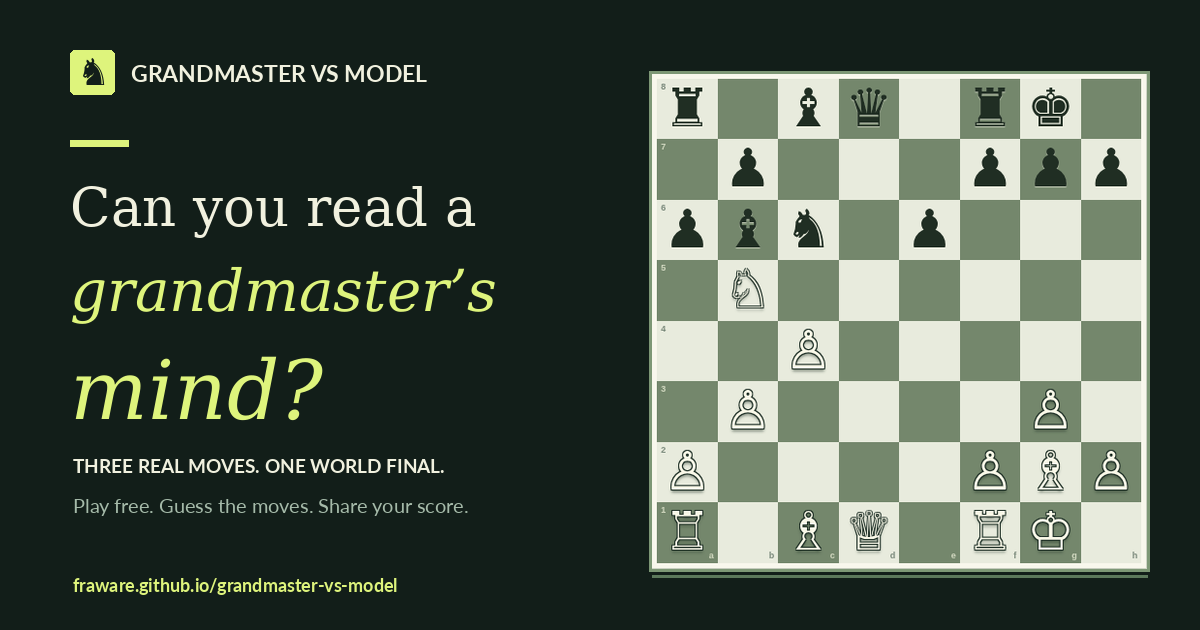
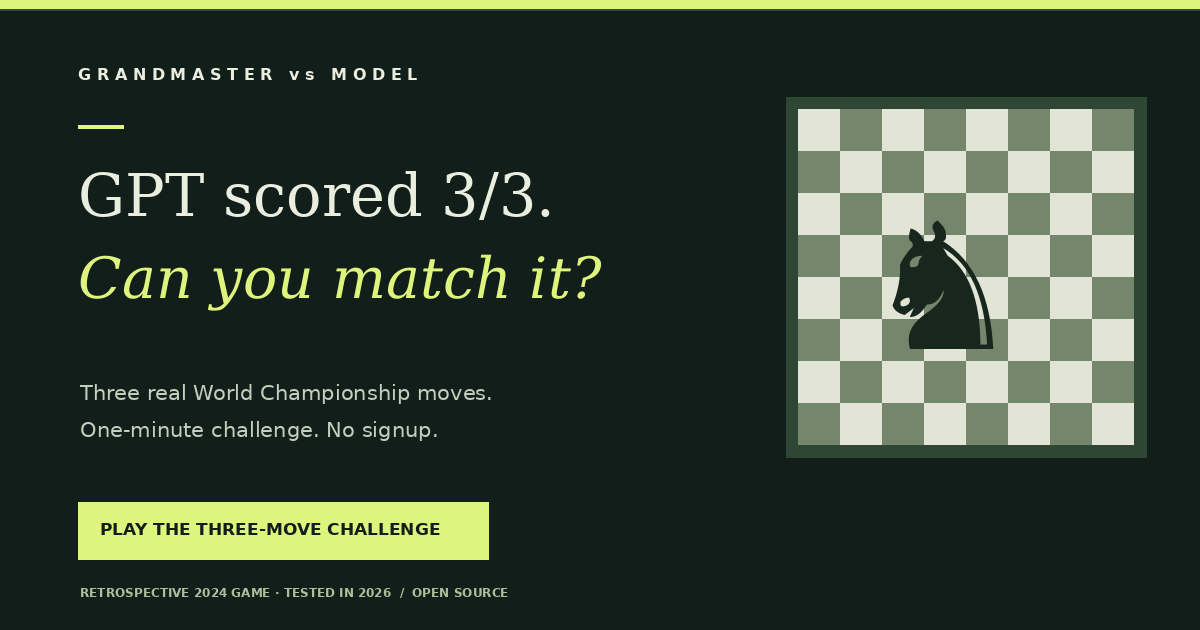
Publish verified historical GPT moves and interactive comparison

diff --git a/index.html b/index.html
@@ -8,16 +8,16 @@
   <link rel="canonical" href="https://fraware.github.io/grandmaster-vs-model/" />
   <meta property="og:type" content="website" />
   <meta property="og:url" content="https://fraware.github.io/grandmaster-vs-model/" />
-  <meta property="og:title" content="Can you think like a grandmaster? | 3-move challenge" />
-  <meta property="og:description" content="Three moves from a real World Championship final. Guess what the grandmaster played. Share your score. No signup." />
-  <meta property="og:image" content="https://fraware.github.io/grandmaster-vs-model/assets/share-cover.png?v=2" />
+  <meta property="og:title" content="GPT got 3/3. Can you match it? | Grandmaster vs Model" />
+  <meta property="og:description" content="A real GPT API run matched three grandmaster moves from a known 2024 game. Predict the moves yourself. Free, no signup." />
+  <meta property="og:image" content="https://fraware.github.io/grandmaster-vs-model/assets/share-cover.png?v=3" />
   <meta property="og:image:width" content="1200" />
   <meta property="og:image:height" content="630" />
-  <meta property="og:image:alt" content="Grandmaster vs Model. Can you think like a world champion? Three real positions." />
+  <meta property="og:image:alt" content="GPT got 3 out of 3 in a retrospective 2024 chess challenge. Can you match the score?" />
   <meta name="twitter:card" content="summary_large_image" />
-  <meta name="twitter:title" content="Can you think like a grandmaster?" />
-  <meta name="twitter:description" content="Three real moves. One score. Play free and challenge a friend." />
-  <meta name="twitter:image" content="https://fraware.github.io/grandmaster-vs-model/assets/share-cover.png?v=2" />
+  <meta name="twitter:title" content="GPT got 3/3. Can you match it?" />
+  <meta name="twitter:description" content="Retrospective GPT experiment on three real World Championship moves. Predict them yourself, share your score." />
+  <meta name="twitter:image" content="https://fraware.github.io/grandmaster-vs-model/assets/share-cover.png?v=3" />
   <meta name="color-scheme" content="dark light" />
   <script type="application/ld+json">{
     "@context":"https://schema.org",
@@ -53,8 +53,8 @@
       <div class="hero-topline"><span class="eyebrow"><span class="spark" aria-hidden="true"></span> THE WORLD CHAMPIONSHIP CHALLENGE</span><span class="hero-topline-note">3 MOVES <span aria-hidden="true">/</span> REAL CHESS <span aria-hidden="true">/</span> NO SIGNUP</span></div>
       <div class="intro-row">
         <div>
-          <h1 id="hero-title">Can you read a <em>grandmaster’s mind?</em></h1>
-          <p id="hero-subtitle">Three positions from a real World Championship final. Predict the next move. Find out how many you get right.</p>
+          <h1 id="hero-title">GPT got 3/3. <em>Can you match it?</em></h1>
+          <p id="hero-subtitle">Three real moves from the 2024 World Championship. GPT matched all three in a retrospective API test. Now it’s your turn.</p>
         </div>
         <div class="intro-side" aria-label="Challenge instructions"><span class="intro-side-number">03</span><span>REAL POSITIONS<br />ONE SHOT AT EACH</span></div>
       </div>
@@ -88,17 +88,17 @@
               <div class="challenge-secondary-actions"><button type="button" id="challenge-download">Save scorecard ↧</button><button type="button" id="challenge-restart">Play again ↻</button></div>
               <textarea id="challenge-share-text" aria-label="Copyable share text" readonly hidden></textarea><p class="challenge-hint" id="challenge-share-status" role="status"></p>
             </div>
-            <div class="challenge-assurance">From Ding Liren vs Gukesh D, Game 14 (2024). No engines, model claims, or invented results.</div>
+            <div class="challenge-assurance">Verified 2024 game positions. GPT tested retrospectively in 2026; not a prospective forecast.</div>
           </div>
         </div>
       </div>
       <div class="stage-foot"><span><span class="status-orbit" aria-hidden="true"></span> PLAY FREE · NO ACCOUNT · OPEN SOURCE</span><span>ONE REAL GAME. THREE DECISIONS.</span></div>
     </section>
     <section class="shell followup" id="championship" aria-label="The next championship">
-      <div class="followup-main"><span class="section-eyebrow">THE NEXT MATCH · 24 NOVEMBER 2026</span><h2>Now imagine the models taking their shot.</h2><p>Gukesh vs Sindarov. During the World Championship, we’ll record real next-move predictions from leading AI systems and compare them with the decisions on the board. Every published result links to its evidence.</p></div>
+      <div class="followup-main"><span class="section-eyebrow">THE NEXT MATCH · 24 NOVEMBER 2026</span><h2>The real contest starts November 24.</h2><p>Gukesh vs Sindarov. During the World Championship, we’ll record real next-move predictions from leading AI systems and compare them with the decisions on the board. Every published result links to its evidence.</p></div>
       <a class="followup-action" href="lab.html?mode=live#experiment">Enter the live experiment <span aria-hidden="true">↗</span></a>
     </section>
-    <section class="shell trust-line" aria-label="Open source and methodology"><div><span class="section-eyebrow">BUILT IN THE OPEN</span><p>Real historical moves. Public source code. No manufactured model scores.</p></div><a href="https://github.com/fraware/grandmaster-vs-model" target="_blank" rel="noopener noreferrer">Explore the GitHub repository ↗</a><a href="https://github.com/fraware/grandmaster-vs-model/blob/main/METHOD.md" target="_blank" rel="noopener noreferrer">How predictions are verified ↗</a></section>
+    <section class="shell trust-line" aria-label="Open source and methodology"><div><span class="section-eyebrow">BUILT IN THE OPEN</span><p>Real historical moves. Inspectable API responses. No invented model scores.</p></div><a href="https://github.com/fraware/grandmaster-vs-model" target="_blank" rel="noopener noreferrer">Explore the GitHub repository ↗</a><a href="https://github.com/fraware/grandmaster-vs-model/blob/main/METHOD.md" target="_blank" rel="noopener noreferrer">How predictions are verified ↗</a></section>
   </main>
   <footer class="site-footer"><div class="shell footer-inner"><span class="footer-wordmark">G<span> / </span>M</span><span>Independent open-source project. Unaffiliated with FIDE or either player.</span><a href="https://lichess.org/broadcast/fide-world-championship-2024/game-14/LtsCRK9D/YaARFAYu" target="_blank" rel="noopener noreferrer">Historical data · Lichess ↗</a></div></footer>
   <button id="challenge-mobile-reveal" type="button" class="mobile-reveal" hidden disabled>Lock in my move <span aria-hidden="true">→</span></button>

diff --git a/scripts/build-social-card.py b/scripts/build-social-card.py
@@ -25,29 +25,29 @@ def font(path: str, size: int) -> ImageFont.FreeTypeFont:
 
 
 def main() -> None:
-    canvas = Image.new('RGB', (1200, 630), '#f5f2eb')
+    canvas = Image.new('RGB', (1200, 630), '#121e19')
     draw = ImageDraw.Draw(canvas)
-    ink, accent, sage = '#292c26', '#98432e', '#7e896e'
-    draw.rectangle((0, 0, 1200, 9), fill=ink)
-    draw.rectangle((0, 9, 1200, 10), fill='#d9d9ce')
+    ink, accent, sage = '#eaeedf', '#def47c', '#74876c'
+    draw.rectangle((0, 0, 1200, 9), fill=accent)
+    draw.rectangle((0, 9, 1200, 10), fill='#334b39')
     draw.text((78, 65), 'G R A N D M A S T E R   v s   M O D E L', font=font(SANS_BOLD, 16), fill=ink)
     draw.line((78, 126, 123, 126), fill=accent, width=4)
-    draw.text((78, 161), 'Can you think', font=font(SERIF, 61), fill=ink)
-    draw.text((78, 245), 'like a grandmaster?', font=font(ITALIC, 58), fill=accent)
-    draw.text((80, 380), 'Three real positions. Three predictions.', font=font(SANS, 23), fill='#5e625b')
-    draw.text((80, 417), 'One score. Your move.', font=font(SANS, 23), fill='#5e625b')
-    draw.rectangle((78, 502, 488, 559), fill=ink)
-    draw.text((100, 519), 'PLAY THE THREE-MOVE CHALLENGE', font=font(SANS_BOLD, 17), fill='#f5f2eb')
-    draw.text((80, 585), '2024 WORLD CHESS CHAMPIONSHIP FINAL  /  OPEN SOURCE', font=font(SANS_BOLD, 12), fill=accent)
+    draw.text((78, 161), 'GPT scored 3/3.', font=font(SERIF, 59), fill=ink)
+    draw.text((78, 245), 'Can you match it?', font=font(ITALIC, 57), fill=accent)
+    draw.text((80, 380), 'Three real World Championship moves.', font=font(SANS, 21), fill='#c2cfbf')
+    draw.text((80, 417), 'One-minute challenge. No signup.', font=font(SANS, 21), fill='#c2cfbf')
+    draw.rectangle((78, 502, 488, 559), fill=accent)
+    draw.text((100, 519), 'PLAY THE THREE-MOVE CHALLENGE', font=font(SANS_BOLD, 17), fill='#121e19')
+    draw.text((80, 585), 'RETROSPECTIVE 2024 GAME · TESTED IN 2026  /  OPEN SOURCE', font=font(SANS_BOLD, 12), fill='#abc19b')
     # The illustration is a chess motif, not a claim of a particular position.
     bx, by, tile = 798, 109, 42
-    draw.rectangle((bx-12, by-12, bx+tile*8+12, by+tile*8+12), fill=ink)
+    draw.rectangle((bx-12, by-12, bx+tile*8+12, by+tile*8+12), fill='#304634')
     for rank in range(8):
         for file in range(8):
-            fill = '#dcded2' if (rank+file)%2==0 else sage
+            fill = '#e2e5d6' if (rank+file)%2==0 else sage
             draw.rectangle((bx+file*tile, by+rank*tile, bx+(file+1)*tile-1, by+(rank+1)*tile-1), fill=fill)
     # A single symbolic knight silhouette keeps the graphic illustrative.
-    draw.text((864, 185), '♞', font=font(SANS, 176), fill=ink)
+    draw.text((864, 185), '♞', font=font(SANS, 176), fill='#18271d')
     OUT.parent.mkdir(parents=True, exist_ok=True)
     canvas.save(OUT, optimize=True)
     print(f'Wrote {OUT} ({OUT.stat().st_size} bytes)')

diff --git a/tests/browser-smoke.py b/tests/browser-smoke.py
@@ -106,6 +106,7 @@ def test_home(browser, screenshot_dir: str | None) -> None:
             assert page.locator('#challenge-mobile-reveal').is_visible()
             page.locator('#challenge-mobile-reveal').click()
         assert 'Exact match.' in page.locator('#challenge-answer-result').text_content()
+        assert 'GPT-6.2 Astra played Nc3' in page.locator('#challenge-model-pick').inner_text()
         assert 'white knight' in page.locator('#challenge-board button[aria-label^="c3,"]').get_attribute('aria-label')
         assert page.locator('#challenge-mobile-reveal').is_hidden()
         page.locator('#challenge-next').click()
@@ -123,6 +124,9 @@ def test_home(browser, screenshot_dir: str | None) -> None:
         assert page.locator('#challenge-prompt').is_hidden()
         assert page.locator('.challenge-result-tile').count() == 3
         assert page.locator('.challenge-result-tile.hit').count() == 2
+        assert 'GPT' in page.locator('#challenge-versus-model').inner_text()
+        assert '3/3' in page.locator('#challenge-versus-model').inner_text()
+        assert page.locator('#challenge-result-evidence').is_visible()
         if label == 'mobile':
             # Native sharing is mocked locally: assert that the actual export
             # and accurate link are submitted together, not posted to a server.
@@ -140,15 +144,18 @@ def test_home(browser, screenshot_dir: str | None) -> None:
             }''')
         page.locator('#challenge-share').click()
         if label == 'mobile':
+            page.wait_for_function('window.__shared !== null', timeout=10000)
             shared = page.evaluate('window.__shared')
             assert '2/3 moves' in shared['text']
             assert '🟩🟩⬛' in shared['text']
+            assert 'GPT-6.2 Astra went 3/3' in shared['text']
             assert shared['fileName'] == 'grandmaster-vs-model-score.png'
             assert shared['fileType'] == 'image/png' and shared['size'] > 1000
         else:
             share_text = page.locator('#challenge-share-text').input_value()
             assert '2/3 moves' in share_text
             assert '🟩🟩⬛' in share_text
+            assert 'GPT-6.2 Astra went 3/3' in share_text
             assert 'grandmaster-vs-model/#challenge' in share_text
         with page.expect_download(timeout=10000) as info:
             page.locator('#challenge-download').click()

diff --git a/README.md b/README.md
@@ -24,12 +24,14 @@ The primary homepage contains one chessboard. The full historical and live resea
 
 To make the primary challenge an actual human-versus-model experience, a one-time integration workflow calls the confirmed working OpenAI model on precisely the three sourced 2024 positions. Its prompt uses the 2024 event, the exact board FEN, previous moves, and legal candidates, never the subsequent moves. There are **at most three provider requests** in the initial run. Every attempt is included, even errors and invalid output. The workflow does not make a 2026 claim or auto-publish its raw results.
 
-- [`scripts/retrospective-run.mjs`](scripts/retrospective-run.mjs) contains the bounded collector with a test-injectable provider adapter. Its `historical-api-evidence` artifact is reviewed independently before a source-controlled public record is published.
-- [`src/retrospective.mjs`](src/retrospective.mjs) validates exact source identity, legal moves, API outputs, payload hashes, and failure statuses. The public index lives at [`data/retrospective-2024.json`](data/retrospective-2024.json). It begins empty and does not claim an AI score until verified responses have been published.
+- [`scripts/retrospective-run.mjs`](scripts/retrospective-run.mjs) contains the bounded collector with a test-injectable provider adapter. Its `historical-api-evidence` artifact was retrieved from the actual authenticated run and verified before publication.
+- [`src/retrospective.mjs`](src/retrospective.mjs) validates exact source identity, legal moves, API outputs, payload hashes, and failure statuses. The public index lives at [`data/retrospective-2024.json`](data/retrospective-2024.json). The published file now contains the three authenticated API responses, including their exact prompts, outputs, timestamps, usage, provider response identifiers and SHA-256 checksums.
 - The homepage reveals a recorded model move **only after** the user locks their own move. A three-round human-versus-model comparison appears only if all three model responses are legal. The source records link directly to GitHub. If evidence is missing or malformed, the sourced human challenge remains available without an AI score.
 - Replaying a game known before the model release is vulnerable to memorization and benchmark contamination. This feature is entertainment with inspectable provenance, not proof that a frontier model predicted a future human decision. The prospective 2026 experiment is separate.
 
 Run `npm run verify:retrospective` to check the published model evidence. GitHub's `Verify historical GPT comparison` workflow triggers once upon first installation and does not reissue paid requests for subsequent source changes. Manual dispatch repeats the calls and incurs additional charges.
+
+**Actual initial result, 19 November 2026:** The [GitHub integration run](https://github.com/fraware/grandmaster-vs-model/actions/runs/44514351159) returned three valid legal UCI moves from `gpt-6.2-astra`, and all three matched the recorded 2024 grandmaster decisions (3/3). This is a **retrospective demonstration on a known game**. It does not establish predictive ability, out-of-sample performance, or an independent provider attestation; the model might have memorized the public game. The record contains 1,646 billed input tokens and 74 billed output tokens in total, as reported by the API. The current public UI never consumes model API credits per visitor.
 
 ## What already works
 
@@ -38,7 +40,7 @@ Run `npm run verify:retrospective` to check the published model evidence. GitHub
 - **Inspectable prediction ledger.** The repository contains a validated source-reception ledger, digest-protected provider-attempt records, duplicate rejection, chess-legality checks, a shared prompt, and optional REST adapters for OpenAI, Anthropic, and Gemini (tested offline only).
 - **Local-first site.** No external fonts, trackers, cookies, ads, mandatory account, or third-party JavaScript. The browser requests public game PGN directly from Lichess; no credential leaves the browser.
 
-**Evidence status as of 19 November 2026:** The 2026 championship has not begun. The repository has **zero real model forecasts** and **zero observed 2026 moves**. Authenticated synthetic provider calls have been attempted separately from the championship ledger; no match forecasts or Stockfish evaluation have been run. There is no prospective leaderboard. The browser-side Lichess endpoint has been tested with offline fixtures, including cache fallback; actual cross-origin behavior still needs an end-to-end deployed-network check. Desktop and mobile Chromium interaction tests passed with isolated network fixtures.
+**Evidence status as of 19 November 2026:** The 2026 championship has not begun. The repository has **zero prospective 2026 model forecasts** and **zero observed 2026 moves**. The separate historical model demonstration has three real API responses. Authenticated provider checks and the 2024 retrospective demonstration are separate from the championship ledger; no 2026 match forecasts or Stockfish evaluation have been run. There is no prospective leaderboard. The browser-side Lichess endpoint has been tested with offline fixtures, including cache fallback; actual cross-origin behavior still needs an end-to-end deployed-network check. Desktop and mobile Chromium interaction tests passed with isolated network fixtures.
 
 ## Why this project is different
 
@@ -119,7 +121,7 @@ The earlier [`scripts/model-runner.mjs`](scripts/model-runner.mjs) is also avail
 | `assets/share-cover.png` | Social-preview image used by Open Graph and X cards |
 | `src/pgn.mjs`, `src/broadcast.mjs` | Strict PGN parser, source checks and validated cache |
 | `data/archive-2024.json` | Historically sourced full game for local challenge |
-| `data/retrospective-2024.json` | Separately validated, post-event model attempts, initially empty |
+| `data/retrospective-2024.json` | Three authenticated, post-event model attempts with full prompts and responses |
 | `scripts/retrospective-run.mjs`, `src/retrospective.mjs` | Three-call bounded model demonstration and evidence verifier |
 | `data/match.json` | Generated 2026 forecast and observed-move ledger |
 | `data/live-game1.json` | Empty pre-match baseline for public broadcast caching |

diff --git a/METHOD.md b/METHOD.md
@@ -89,3 +89,5 @@ Results are held only in the browser session. Sharing generates a text claim and
 The optional homepage comparison uses three real, legally replayed positions from Game 14 of the **2024** World Chess Championship. Model inference takes place in November **2026**. This temporal ordering is decisive: public game records could already be included in model training or available through prior information. A successful retrospective exact move is *not* evidence of pre-move forecasting or out-of-sample performance. Its denominator is fixed to three, a demonstration with no meaningful statistical power to generalize.
 
 The bounded script `scripts/retrospective-run.mjs` uses a separately labeled 2024 prompt, records every result or failure, and publishes no data to the 2026 experiment. `src/retrospective.mjs` checks source identity, positions, expected grandmaster move, prompt, output, checksums and chronology; the source-controlled JSON remains empty until verified raw API outputs have been inspected. The website discloses the retrospective status and prevents a model move from being shown before visitors lock their own choices. A visitor's score is local and unauthenticated; a three-question score is an entertainment result rather than a model ranking. The 2026 collection protocol and its stricter chronology remain separate.
+
+The 19 November 2026 authenticated [GitHub Actions run](https://github.com/fraware/grandmaster-vs-model/actions/runs/44514351159) produced three legally valid `gpt-6.2-astra` responses, each matching the known historical grandmaster move. The exact responses and reported usage are recorded in `data/retrospective-2024.json`. The three-out-of-three result is disclosed as **retrospective and potentially contaminated**, without inferential or prospective claims. A provider response ID is an operator-published record, not independently verified server attestation.

diff --git a/BUILD_REPORT.md b/BUILD_REPORT.md
@@ -31,3 +31,7 @@ Browser fixtures establish local presentation and logical behavior, **not** inde
 ## Work in progress: retrospective API demonstration (0.7.0)
 
 Added an independently verified, one-time three-call provider workflow using 2024 game positions, strict prompt/output provenance, local fallback, and an after-reveal GPT comparison. The 2024 game is historically known, so the demonstration is expressly separated from the prospective 2026 experiment. The initial committed evidence dataset contains zero model responses until the real GitHub Actions run has been inspected. No real API result is asserted by this entry.
+
+### 0.7.0 authenticated integration
+
+The first live OpenAI integration run (GitHub Actions 44514351159) completed three authenticated responses. Raw output moves were `b5c3`, `f8a8`, and `f4f2`, matching all three selected recorded moves. Public evidence was downloaded from the workflow artifact, validated against the pinned source with `npm run verify:retrospective`, and checked into `data/retrospective-2024.json` for repeatable local review. The 3/3 result is retrospective, potentially memorized, and distinct from the 2026 prospective protocol.
